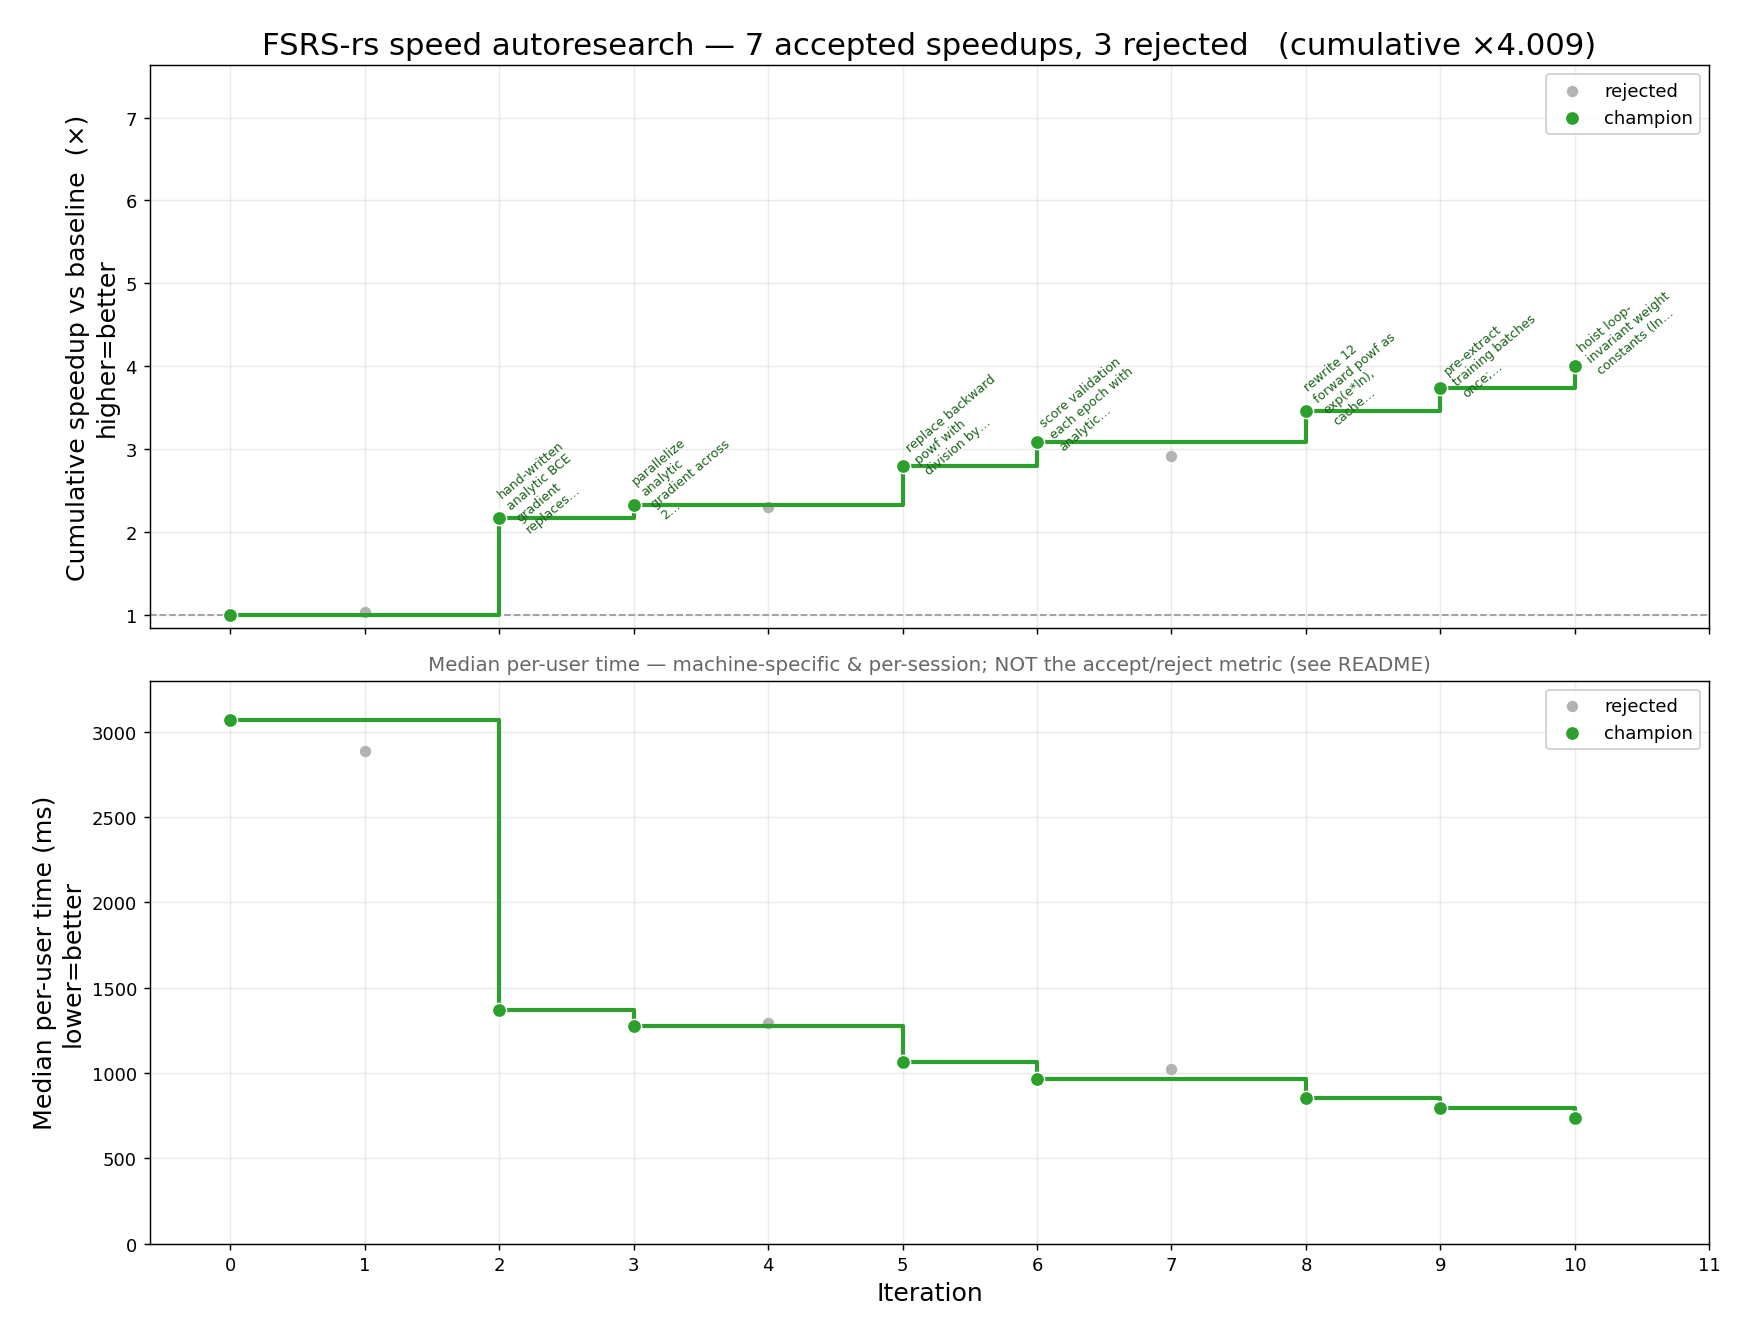
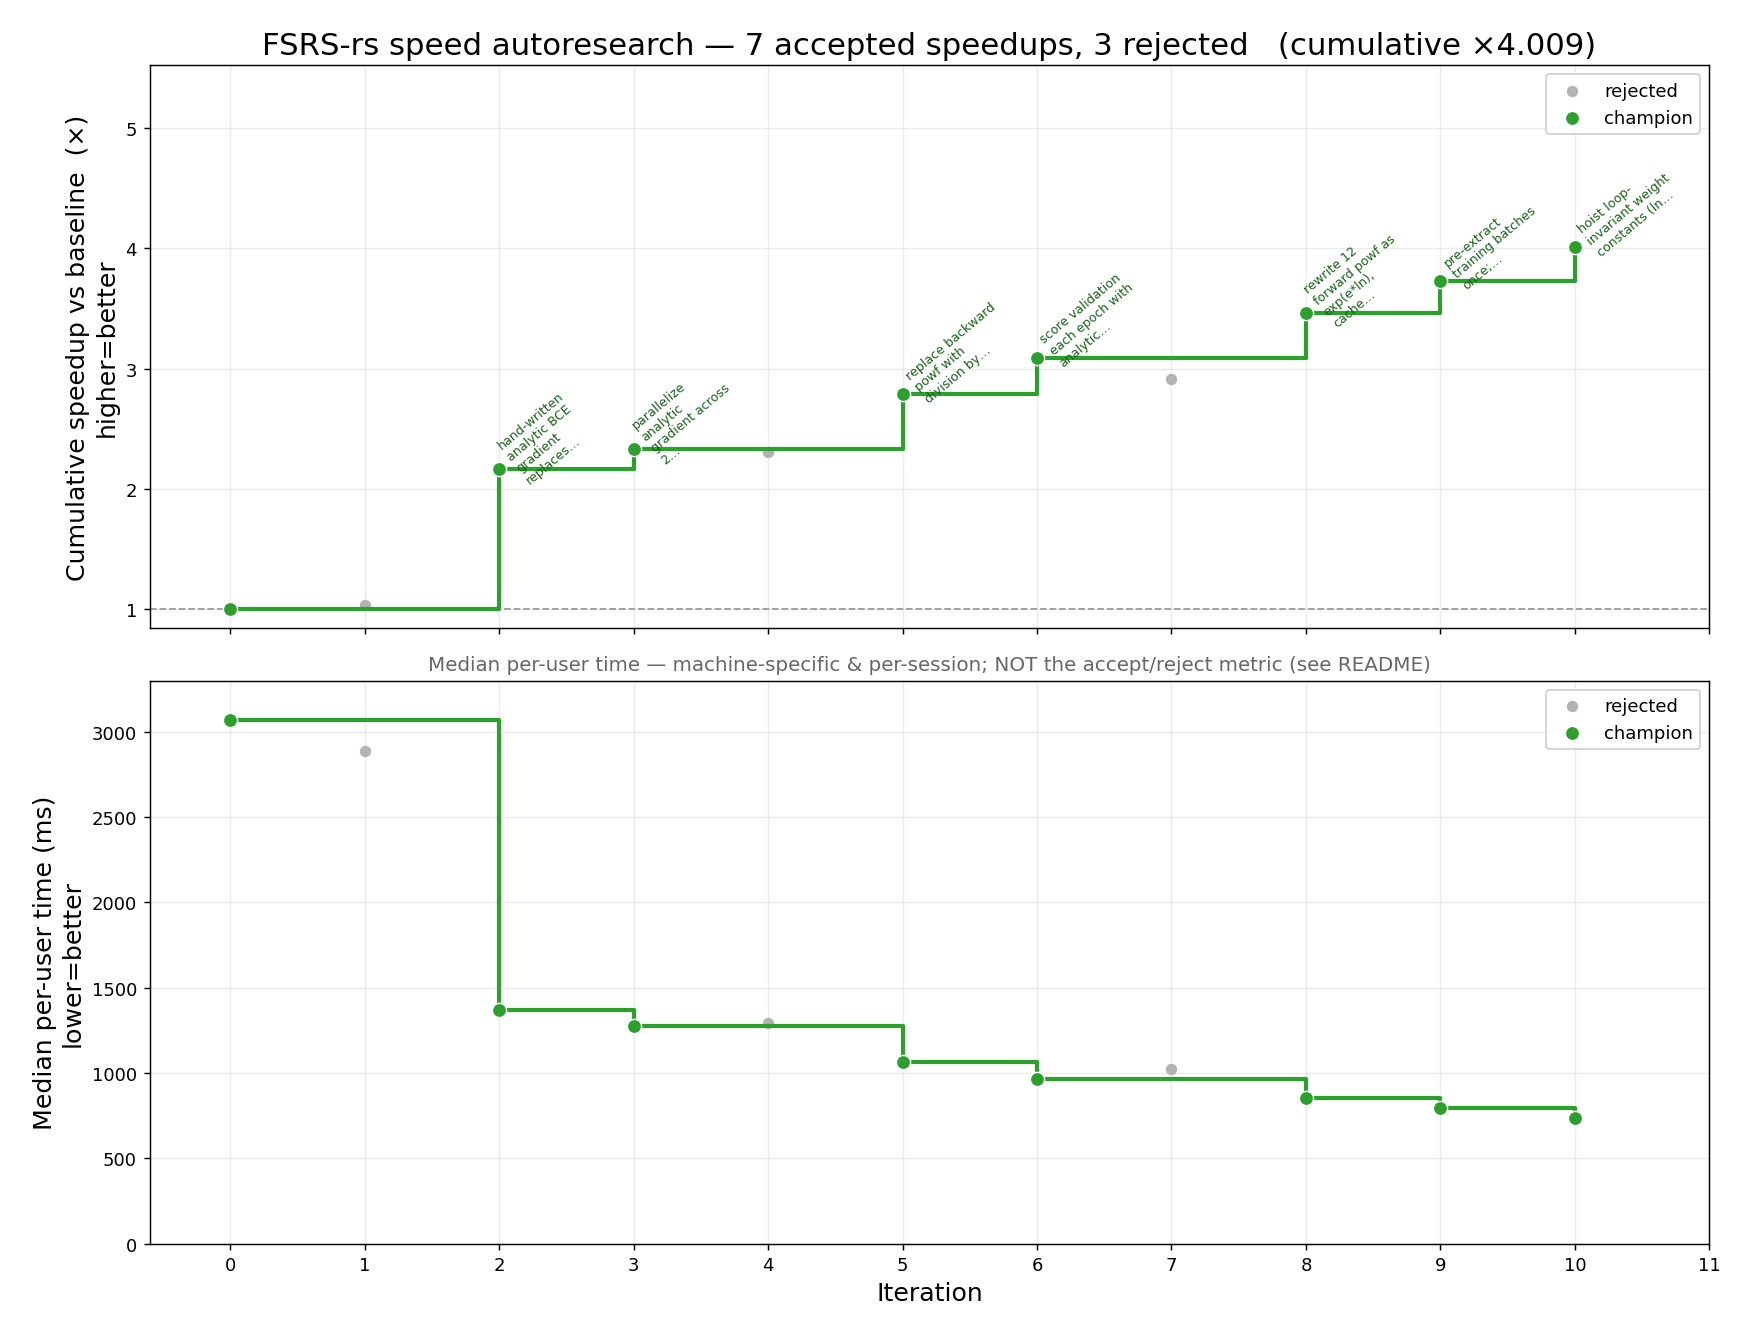
plot_history: tighten top-panel headroom above the speedup curve

diff --git a/plot_history.py b/plot_history.py
@@ -158,7 +158,7 @@ def main() -> None:
     ax_sp.legend(loc="upper right", framealpha=0.9)
     ylo, yhi = min(cy + [1.0]), max(cy + [1.0])
     yr = (yhi - ylo) or 1.0
-    pad_top = (1.20 if not args.no_summaries else 0.10) * yr
+    pad_top = (0.5 if not args.no_summaries else 0.10) * yr
     ax_sp.set_ylim(ylo - 0.05 * yr - 0.01, yhi + pad_top + 0.01)
 
     # ---- Bottom panel: median time (machine-specific; NOT the accept metric) ----
